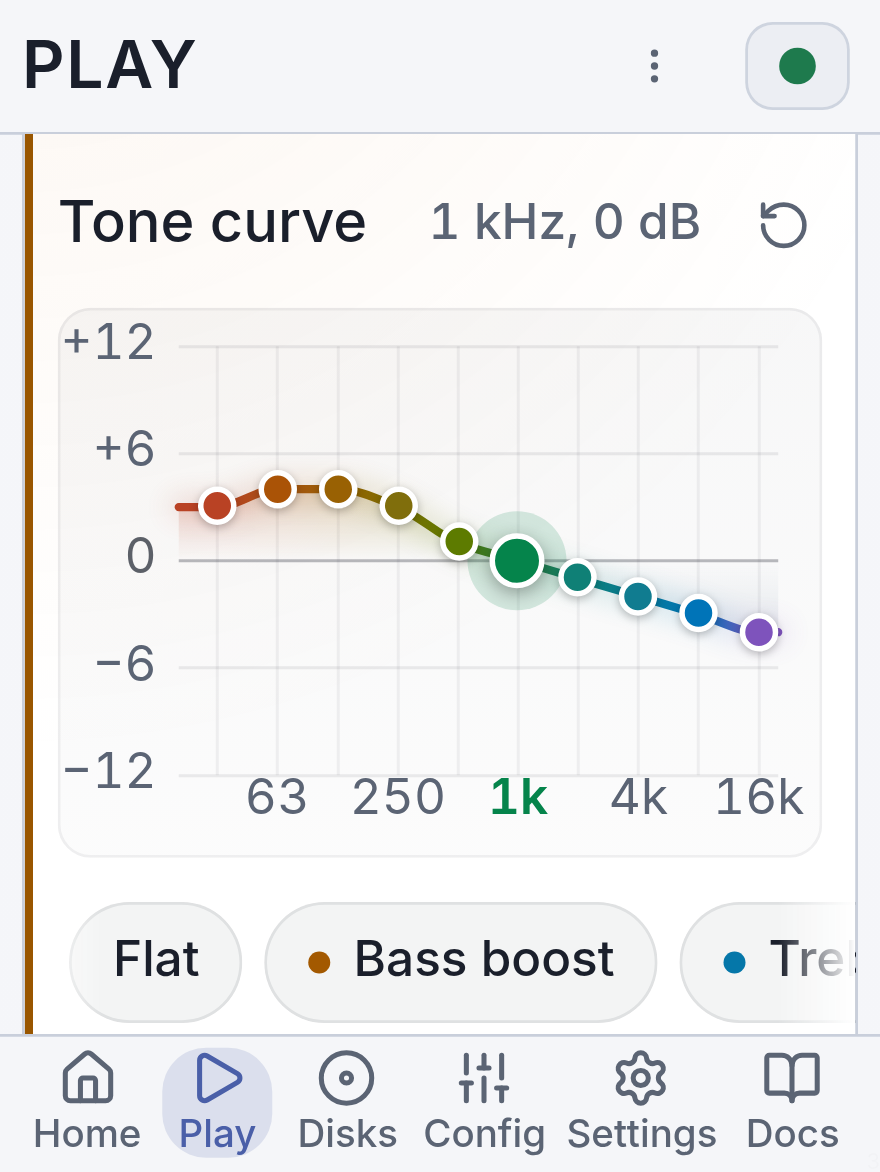
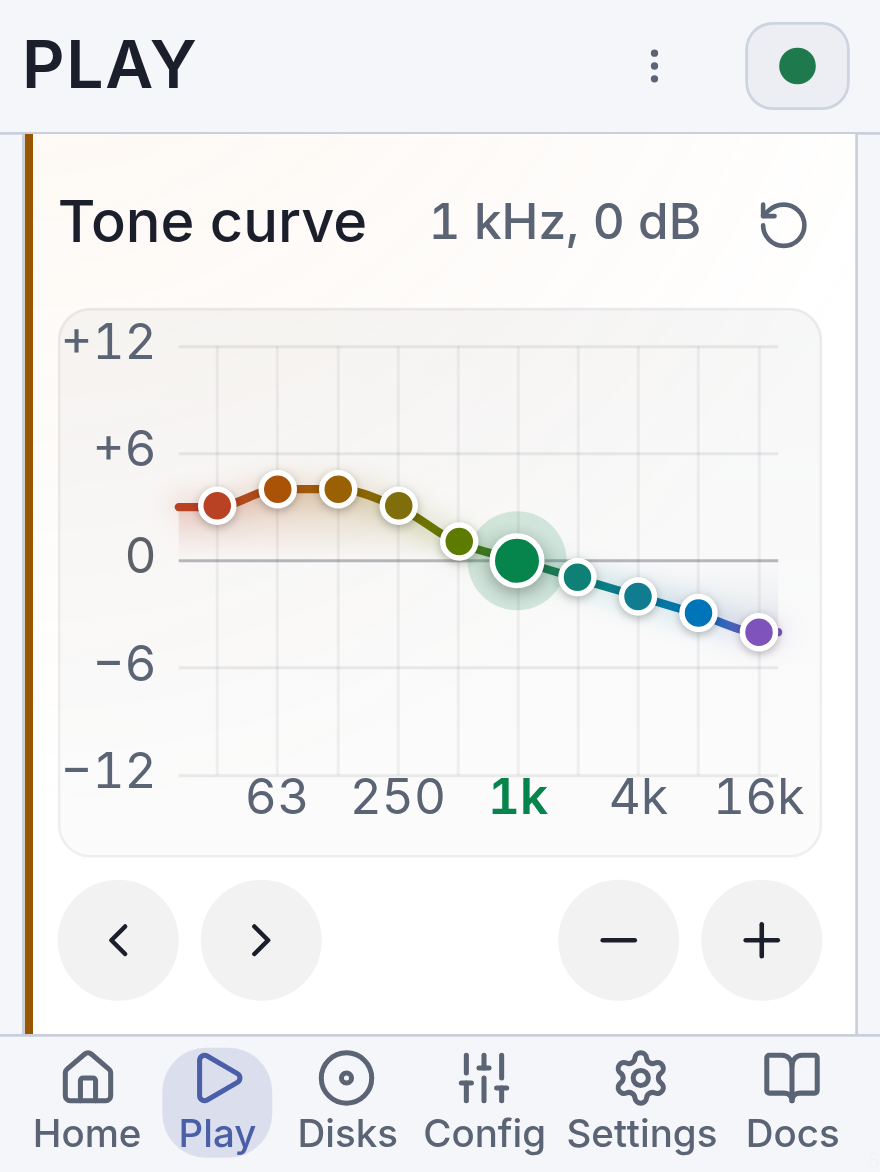
Add 44 px band and gain buttons to the tone curve; guard the solver against non-finite targets
Ten bands are about 26 px apart on a 320 px screen, so the plot columns cannot be 44 px wide.
Four 44 px buttons (previous band, next band, lower gain, raise gain) now give touch users a
target-size compliant way to pick a band and change its gain. They are skipped by the keypad
ring, which keeps the plot as its single stop.

compensatedGains now treats missing and non-finite targets as 0 dB. A NaN target previously
propagated through the Newton iteration and produced ten NaN gains.

diff --git a/src/components/sound/ToneCurveEditor.tsx b/src/components/sound/ToneCurveEditor.tsx
@@ -5,15 +5,17 @@
  * Licensed under the GNU General Public License v3.0 or later.
  * See <https://www.gnu.org/licenses/> for details.
  */
-import { useMemo, useRef, useState, type KeyboardEvent } from "react";
-import { RotateCcw } from "lucide-react";
+import { useMemo, useRef, useState, type KeyboardEvent, type ReactNode } from "react";
+import { ChevronLeft, ChevronRight, Minus, Plus, RotateCcw } from "lucide-react";
 
 import { cn } from "@/lib/utils";
-import { VERTICAL_OWNER_ATTR } from "@/lib/input";
+import { SKIP_ATTR, VERTICAL_OWNER_ATTR } from "@/lib/input";
 import { useInputModality } from "@/hooks/useInputModality";
 import {
   TONE_BAND_COUNT,
   TONE_BAND_HZ,
+  TONE_MAX_DB,
+  TONE_MIN_DB,
   flatBands,
   formatBandHz,
   formatToneDb,
@@ -27,6 +29,33 @@ import { ToneCurvePlot } from "@/components/sound/ToneCurvePlot";
 export const TONE_STEP_DB = 1;
 export const TONE_LONG_PRESS_STEP_DB = 3;
 const START_BAND = 5;
+
+const NUDGE_CLASS =
+  "flex size-11 shrink-0 items-center justify-center rounded-full bg-foreground/[0.06] text-foreground transition-colors hover:bg-foreground/10 disabled:opacity-40";
+
+interface NudgeProps {
+  label: string;
+  testId: string;
+  disabled: boolean;
+  onPress: () => void;
+  children: ReactNode;
+}
+
+const Nudge = ({ label, testId, disabled, onPress, children }: NudgeProps) => (
+  <button
+    type="button"
+    tabIndex={-1}
+    {...{ [SKIP_ATTR]: "true" }}
+    className={NUDGE_CLASS}
+    disabled={disabled}
+    onClick={onPress}
+    aria-label={label}
+    title={label}
+    data-testid={testId}
+  >
+    {children}
+  </button>
+);
 
 interface ToneCurveEditorProps {
   bandsDb: readonly number[];
@@ -42,7 +71,8 @@ interface ToneCurveEditorProps {
  * The ten-band tone curve: one draggable point per band and a smooth curve through all of them. A touch
  * picks the band nearest to it and a drag changes that band's gain only; a double tap puts it back to 0 dB.
  * With keys, Left and Right pick a band; OK starts and ends gain editing, in which Up and Down change the
- * gain (3 dB while a key is held). The key hint shows only while keys are in use.
+ * gain (3 dB while a key is held). The key hint shows only while keys are in use. Ten bands do not fit
+ * 44 px columns on a phone, so four 44 px buttons pick the band and nudge its gain for a touch.
  */
 export const ToneCurveEditor = ({
   bandsDb,
@@ -160,6 +190,41 @@ export const ToneCurveEditor = ({
           },
         }}
       />
+      <div className="flex items-center gap-2" data-testid="sound-tone-nudges">
+        <Nudge
+          label="Previous band"
+          testId="sound-tone-band-prev"
+          disabled={disabled || selected === 0}
+          onPress={() => setSelected((band) => Math.max(0, band - 1))}
+        >
+          <ChevronLeft className="size-5" aria-hidden />
+        </Nudge>
+        <Nudge
+          label="Next band"
+          testId="sound-tone-band-next"
+          disabled={disabled || selected === TONE_BAND_COUNT - 1}
+          onPress={() => setSelected((band) => Math.min(TONE_BAND_COUNT - 1, band + 1))}
+        >
+          <ChevronRight className="size-5" aria-hidden />
+        </Nudge>
+        <span className="ml-auto" />
+        <Nudge
+          label="Lower gain"
+          testId="sound-tone-gain-down"
+          disabled={disabled || gain <= TONE_MIN_DB}
+          onPress={() => step(-TONE_STEP_DB)}
+        >
+          <Minus className="size-5" aria-hidden />
+        </Nudge>
+        <Nudge
+          label="Raise gain"
+          testId="sound-tone-gain-up"
+          disabled={disabled || gain >= TONE_MAX_DB}
+          onPress={() => step(TONE_STEP_DB)}
+        >
+          <Plus className="size-5" aria-hidden />
+        </Nudge>
+      </div>
       {focused && keypad && !disabled ? (
         <p className="text-sm text-muted-foreground" data-testid="sound-tone-hint">
           {editing ? "Up and down set the gain, OK to finish" : "Left and right pick a band, OK to adjust"}

diff --git a/tests/unit/components/sound/ToneCurveEditor.test.tsx b/tests/unit/components/sound/ToneCurveEditor.test.tsx
@@ -184,4 +184,48 @@ describe("ToneCurveEditor", () => {
     expect(plot()).toHaveAttribute("tabindex", "-1");
     expect(plot()).toHaveAttribute("data-editing", "false");
   });
+
+  it("picks any band and nudges its gain with 44 px buttons that the keypad ring skips", () => {
+    render(<Harness />);
+    const press = (id: string) => fireEvent.click(screen.getByTestId(id));
+    press("sound-tone-band-prev");
+    press("sound-tone-gain-up");
+    press("sound-tone-gain-up");
+    press("sound-tone-band-next");
+    press("sound-tone-band-next");
+    press("sound-tone-gain-down");
+    expect(bands()).toBe("0,0,0,0,2,0,-1,0,0,0");
+    for (const id of ["band-prev", "band-next", "gain-down", "gain-up"]) {
+      const button = screen.getByTestId(`sound-tone-${id}`);
+      expect(button).toHaveAttribute("data-key-nav-skip", "true");
+      expect(button).toHaveAttribute("tabindex", "-1");
+      expect(button.className).toContain("size-11");
+    }
+  });
+
+  it("stops the nudge buttons at the first and last band and at plus and minus 12 dB", () => {
+    render(<Harness initial={[0, 0, 0, 0, 0, 12, 0, 0, 0, 0]} />);
+    expect(screen.getByTestId("sound-tone-gain-up")).toBeDisabled();
+    expect(screen.getByTestId("sound-tone-gain-down")).toBeEnabled();
+    for (let n = 0; n < 5; n += 1) fireEvent.click(screen.getByTestId("sound-tone-band-prev"));
+    expect(screen.getByTestId("sound-tone-band-prev")).toBeDisabled();
+    expect(screen.getByTestId("sound-tone-readout")).toHaveTextContent("31 Hz, 0 dB");
+    for (let n = 0; n < 9; n += 1) fireEvent.click(screen.getByTestId("sound-tone-band-next"));
+    expect(screen.getByTestId("sound-tone-band-next")).toBeDisabled();
+  });
+
+  it("disables every nudge button while the card is disabled", () => {
+    render(<Harness disabled />);
+    for (const id of ["band-prev", "band-next", "gain-down", "gain-up"]) {
+      expect(screen.getByTestId(`sound-tone-${id}`)).toBeDisabled();
+    }
+  });
+
+  it("labels the gain scale at plus 12, 6, 0, minus 6 and minus 12 dB beside the plot", () => {
+    render(<Harness />);
+    const labels = Array.from(plot().querySelectorAll("span[aria-hidden='true']"))
+      .map((node) => node.textContent)
+      .filter((text) => /^([+−]\d+|0)$/.test(text ?? ""));
+    expect(labels).toEqual(["+12", "+6", "0", "−6", "−12"]);
+  });
 });

diff --git a/src/lib/audio/tone/toneResponse.ts b/src/lib/audio/tone/toneResponse.ts
@@ -108,9 +108,13 @@ export const solveLinear = (matrix: readonly (readonly number[])[], rhs: readonl
  * Band gains that make the drawn cascade response pass through the target points at the ten centres.
  * Adjacent bands overlap, so a band's own gain is not the response at its centre. A ridge-regularised
  * Newton iteration in dB, clamped to the band range at every step, finds them; a target that cannot be
- * reached inside the clamp ends at the nearest reachable value. All-zero targets return exactly zeros.
+ * reached inside the clamp ends at the nearest reachable value. All-zero targets return exactly zeros;
+ * a missing or non-finite target counts as 0 dB.
  */
-export const compensatedGains = (targetsDb: BandGains, sampleRate = TONE_SAMPLE_RATE): number[] => {
+export const compensatedGains = (requestedDb: BandGains, sampleRate = TONE_SAMPLE_RATE): number[] => {
+  const targetsDb = Array.from({ length: TONE_BAND_COUNT }, (_, band) =>
+    Number.isFinite(requestedDb[band]) ? requestedDb[band] : 0,
+  );
   if (targetsDb.every((db) => db === 0)) return new Array<number>(TONE_BAND_COUNT).fill(0);
   const a = jacobian(sampleRate).map((row, i) => row.map((v, j) => v + (i === j ? SOLVER_RIDGE : 0)));
   let gains = targetsDb.map((db) => clampGain(db));

diff --git a/tests/unit/audio/toneResponse.test.ts b/tests/unit/audio/toneResponse.test.ts
@@ -149,4 +149,25 @@ describe("tone response", () => {
     );
     expect(worst / best).toBeLessThan(20);
   });
+
+  it("treats missing and non-finite targets as 0 dB and always returns ten finite gains within the range", () => {
+    const hostile = [
+      [Number.NaN, 6, 0, 0, 0, 0, 0, 0, 0, 0],
+      [Infinity, -Infinity, 3, 0, 0, 0, 0, 0, 0, 0],
+      [3, 3, 3],
+      [1e308, -1e308, 1e308, -1e308, 1e308, -1e308, 1e308, -1e308, 1e308, -1e308],
+    ];
+    for (const targets of hostile) {
+      const gains = compensatedGains(targets);
+      expect(gains).toHaveLength(10);
+      for (const gain of gains) {
+        expect(Number.isFinite(gain)).toBe(true);
+        expect(Math.abs(gain)).toBeLessThanOrEqual(12);
+      }
+    }
+    expect(compensatedGains([Number.NaN, 0, 0, 0, 0, 0, 0, 0, 0, 0])).toEqual(new Array(10).fill(0));
+    expect(compensatedGains([0, 4, Number.NaN, 0, 0, 0, 0, 0, 0, 0])).toEqual(
+      compensatedGains([0, 4, 0, 0, 0, 0, 0, 0, 0, 0]),
+    );
+  });
 });

diff --git a/docs/cta-inventory.md b/docs/cta-inventory.md
@@ -191,7 +191,7 @@ persistent status badge that appear on every page).
 | -------- | ----------- | --------------------------: | ----------------------------------------------------------------------------------------------------------------------------------------------------------------------------------------------------------------------------------------------------------------------------------------------------------------------------------------------------------------------------------------------------------------------------------------------------------------------------------------------------------------------------------------------------------------------------------------------------------------------------------------------------------------------------------------------------------------------------------------------------------------------------------------------------------------------------------------------------------------------------------------------------------------------------------------------------------------------------------------------------------------------------------------------------------------------------------------------------------------------------------------------------------------------------------------------------------------------------------------------------------------------------------------------------------------------------------------------------------------------------------------------------------------------------------------------------------------------------------------------------------------------------------------------------------------------------------------------------------------------------------------------------------------------------------------------------------------------------------------------------------------------------------------------------------------------------------------------------------------------------------------------------------------------------------------------------------------------------------------------------------------------------------------------------------------------------------------------------------------------------------------------------------------------------------------------------------------------------------------------------------------------------------------------------------------------------------------------------------------------------------------------------------------------------------------------------------------------------------------------------------------------------------------------- |
 | Home     | `/`         |                    117 (+4) | Dashboard: machine actions, quick config, LED, drives, printer, SID mixer, streams, config snapshots. **Screen colors** (`home-video-screen-colors`) was added as the first row of the Quick Config → Video card, taking the page from 113 to 114; it is unconditional and works while disconnected, and the controls of the sheet it opens are an overlay scope counted separately (§4.1). `+1` **Game Mode** tile behind `remote_input_enabled` and the device's streaming capability, first in the Quick actions grid (§3.2.1 order: safe first, destructive last). `+1` Remote Input tile behind `remote_input_enabled` (stable, enabled and user-visible by default in C64 Commander; disabled and hidden in C64U Remote per `variants/feature-flags/c64u-remote.yaml`). `+2` Content Explorer **Live View** card (`live-view-card`) beneath the quick actions — one Audio toggle (`av-audio-toggle`, `audio_mirror_enabled`) and one Video toggle (`av-video-toggle`, `video_mirror_enabled`) sharing the single app-wide A/V mirror session; both user-visible and non-developer, off by default until the phone stream receiver ships. Mounted only when the device advertises streaming (code-verified — see note below). `+4` the promoted tiles (Radio, Last, Recent, Live) moved into the Quick actions grid in 0.10.0-rc2 when the "Listen and play" section was removed. `-1` net from folding **Reboot** and **Power Off** into a single **Power** tile: two tiles out, one in. Power Cycle and Reboot (Clr Mem) were already flag-gated and out of this count. The four rows of the Power sheet are an overlay scope counted separately (§4.1). This total is derived from those deltas rather than re-counted on device.                                                                                                                                                                                                                                                                                                                                                                                                                                                                                                                                                                                                                                                                                                                                                                                                       |
 | Settings | `/settings` |                    83 (+12) | Connection, devices, display (+2 native Android full-screen toggles), feature flags, network/cache, notifications, dev-mode, build info. Includes the 3 SID chip controls in the SID Radio group (one switch plus a two-button chip choice, §4.5), which are shown whenever on-device playback is on. The Crossfade group gained a fifth length (4 s), taking the page from 80 to 81. `+5` the Text size choice (four buttons) and the Allow-circuit-override checkbox, which gained a `data-testid` when its row became the target, taking it to 86. `+6` Content Explorer **Play and disk** controls: Search inside disk images (`in_image_search_enabled`), Answer cartridge boot menu (`launch_safety_enabled`, default on) plus its Menu key select and Boot settle input, and Video/Audio stream port inputs (shown when `audio_mirror_enabled` or `video_mirror_enabled`) (code-verified — see note below). `+4` the Game Mode block in **Remote Input**: `settings-joystick-key-layout`, `settings-game-mode-joystick`, `settings-game-mode-on-launch`, and (for a Custom layout) the nine press-to-bind slots `settings-joystick-bind-<slot>` with their `settings-joystick-clear-<slot>` companions. The **Keep device settings after a restart** checkbox (`settings-persist-config-to-flash`) in Device safety is unconditional and takes the page from 86 to 87. The Screen colors select (`settings-vic-palette`) was removed from the Live View streaming block and its controls now live on Home (§4.1); it sat among the mirror-gated stream controls that the `(+N)` tallies above never counted, so its removal changes no number here. `+2` the `demo_mode_enabled` flag (already in the `stable` group) flipped from off to on by default, so the **Automatic Demo Mode** checkbox and a new **Preview Demo Mode** button in the Devices group are now counted for the first time, taking the page from 87 to 89. `+1` the **Mute C64 seeking** select (`settings-c64-seek-mute`) below Disk first-PRG load in Play and disk, taking it to 90. `+2` the **SID emulation** choice (`settings-sid-engine-residfp`, `settings-sid-engine-sidlite`), which was developer-only and is now shown whenever on-device playback is on, taking it to 92. On Android the same group has a third button, **Fast & accurate** (`settings-sid-engine-sidplayez`), shown only where libSidplayEZ runs; it is not counted in the 92, which is measured on the web build. The Radio playlist limit input adds one control, taking it to 93. `-11 +1` the Audio processing controls (switch, three sliders, Reset, six preset buttons) moved to the Sound card on Play; the section keeps one **Open the Sound card** button. |
-| Play     | `/play`     | 43 (+2 Sound card, +2, +20 SID Radio, +16) | Transport, volume, playback flags, playlist, type filters, HVSC. The five type checkboxes became three (Songs, Progs, Disks) and the filter gained the toggle that folds it on the compact profile, 31 → 30 (code-verified). Include subfolders moved off this page into the Add items sheet (32 → 31). `+2` the **Game Mode** and Remote Input buttons, shown only while playing, behind `remote_input_enabled`, last in the sheet-actions row. `+20` the seekable progress bar, the **Listen on** group and the **SID Radio** controls, behind `c64u_sid_radio_enabled` / `c64u_local_engine_enabled`. `+16` **Find a tune** (open, search box, per-row play and seed-a-station), the composer and the tune position on the metadata lines, the tune-notes reveal, **Play all N tunes**, and the six sleep-timer choices. The playback settings' own tune list was removed when the credits-line one arrived, so the net count is unchanged by it. `+2` the **Sound card** with its section closed: the toggle and the On/Off switch (§4.2). Its body controls (open card: ambiance arrows, chips and Previous, the tone curve, Reset, tone presets, Normalize volume, the two notched sliders and My sounds) are counted separately. |
+| Play     | `/play`     | 43 (+2 Sound card, +2, +20 SID Radio, +16) | Transport, volume, playback flags, playlist, type filters, HVSC. The five type checkboxes became three (Songs, Progs, Disks) and the filter gained the toggle that folds it on the compact profile, 31 → 30 (code-verified). Include subfolders moved off this page into the Add items sheet (32 → 31). `+2` the **Game Mode** and Remote Input buttons, shown only while playing, behind `remote_input_enabled`, last in the sheet-actions row. `+20` the seekable progress bar, the **Listen on** group and the **SID Radio** controls, behind `c64u_sid_radio_enabled` / `c64u_local_engine_enabled`. `+16` **Find a tune** (open, search box, per-row play and seed-a-station), the composer and the tune position on the metadata lines, the tune-notes reveal, **Play all N tunes**, and the six sleep-timer choices. The playback settings' own tune list was removed when the credits-line one arrived, so the net count is unchanged by it. `+2` the **Sound card** with its section closed: the toggle and the On/Off switch (§4.2). Its body controls (open card: ambiance arrows, chips and Previous, the tone curve, Reset, its four touch-only band and gain buttons, tone presets, Normalize volume, the two notched sliders and My sounds) are counted separately. |
 | Config   | `/config`   |                          30 | Search + 22 config-category accordions (each expands to config-item rows).                                                                                                                                                                                                                                                                                                                                                                                                                                                                                                                                                                                                                                                                                                                                                                                                                                                                                                                                                                                                                                                                                                                                                                                                                                                                                                                                                                                                                                                                                                                                                                                                                                                                                                                                                                                                                                                                                                                                                                                                                                                                                                                                                                                                                                                                                                                                                                                                                                                                      |
 | Disks    | `/disks`    |                     26 (+1) | Drive A/B/Soft-IEC controls, disk library. `+1` Content Explorer **New disk** button (`new_disk_enabled`); the per-disk **Open (Disk Explorer)…** overflow action (`disk_explorer_enabled`) and the New-disk / Disk-contents dialogs it opens are documented in §4.3/§5 (code-verified — see note below).                                                                                                                                                                                                                                                                                                                                                                                                                                                                                                                                                                                                                                                                                                                                                                                                                                                                                                                                                                                                                                                                                                                                                                                                                                                                                                                                                                                                                                                                                                                                                                                                                                                                                                                                                                                                                                                                                                                                                                                                                                                                                                                                                                                                                                       |
 | Docs     | `/docs`     |                          45 | 17 guide-chapter toggles, the Contents toggle and its 17 jump links, the tour button, and 3 external links. Paragraphs and steps inside an open chapter are reading stops for the keypad ring, not controls.                                                                                                                                                                                                                                                                                                                                                                                                                                                                                                                                                                                                                                                                                                                                                                                                                                                                                                                                                                                                                                                                                                                                                                                                                                                                                                                                                                                                                                                                                                                                                                                                                                                                                                                                                                                                                                                                                                                                                                                                                                                                                                                                                                                                                                                                                                                                    |
@@ -571,7 +571,11 @@ collection's tunes is installed — see size `sid-radio-collection-<id>-size`]`.
   repeat), Page Up/Down by 3 dB. A short key hint (`sound-tone-hint`) shows under the plot only while the plot has
   focus and the last input was a navigation key. Touch picks the nearest band and a drag changes its gain only;
   a double tap resets that band to 0 dB. Readout `sound-tone-readout`. Reset — icon button — `sound-tone-reset`
-  — R✅ I✅ `[disabled: flat]` — puts the whole curve back to flat.
+  — R✅ I✅ `[disabled: flat]` — puts the whole curve back to flat. Under the plot, four 44 px touch buttons
+  pick the band and nudge its gain by 1 dB: Previous band `sound-tone-band-prev`, Next band
+  `sound-tone-band-next` (disabled at the first and last band), Lower gain `sound-tone-gain-down` and Raise gain
+  `sound-tone-gain-up` (disabled at -12 and +12 dB). They carry `data-key-nav-skip` and `tabindex="-1"`, so the
+  keypad ring does not stop on them; the plot is the keypad path.
 - Tone presets — chips ×7 — `sound-tone-preset-flat|bass-boost|treble-boost|vocal-presence|loudness|warm|bright` — R✅ I✅
 - Normalize volume — switch — `sound-levelling` — R✅ I✅
 - Stereo width — notched slider, thumb `sound-stereo-thumb` — R✅ I✅ — Left/Right jump between the notches
